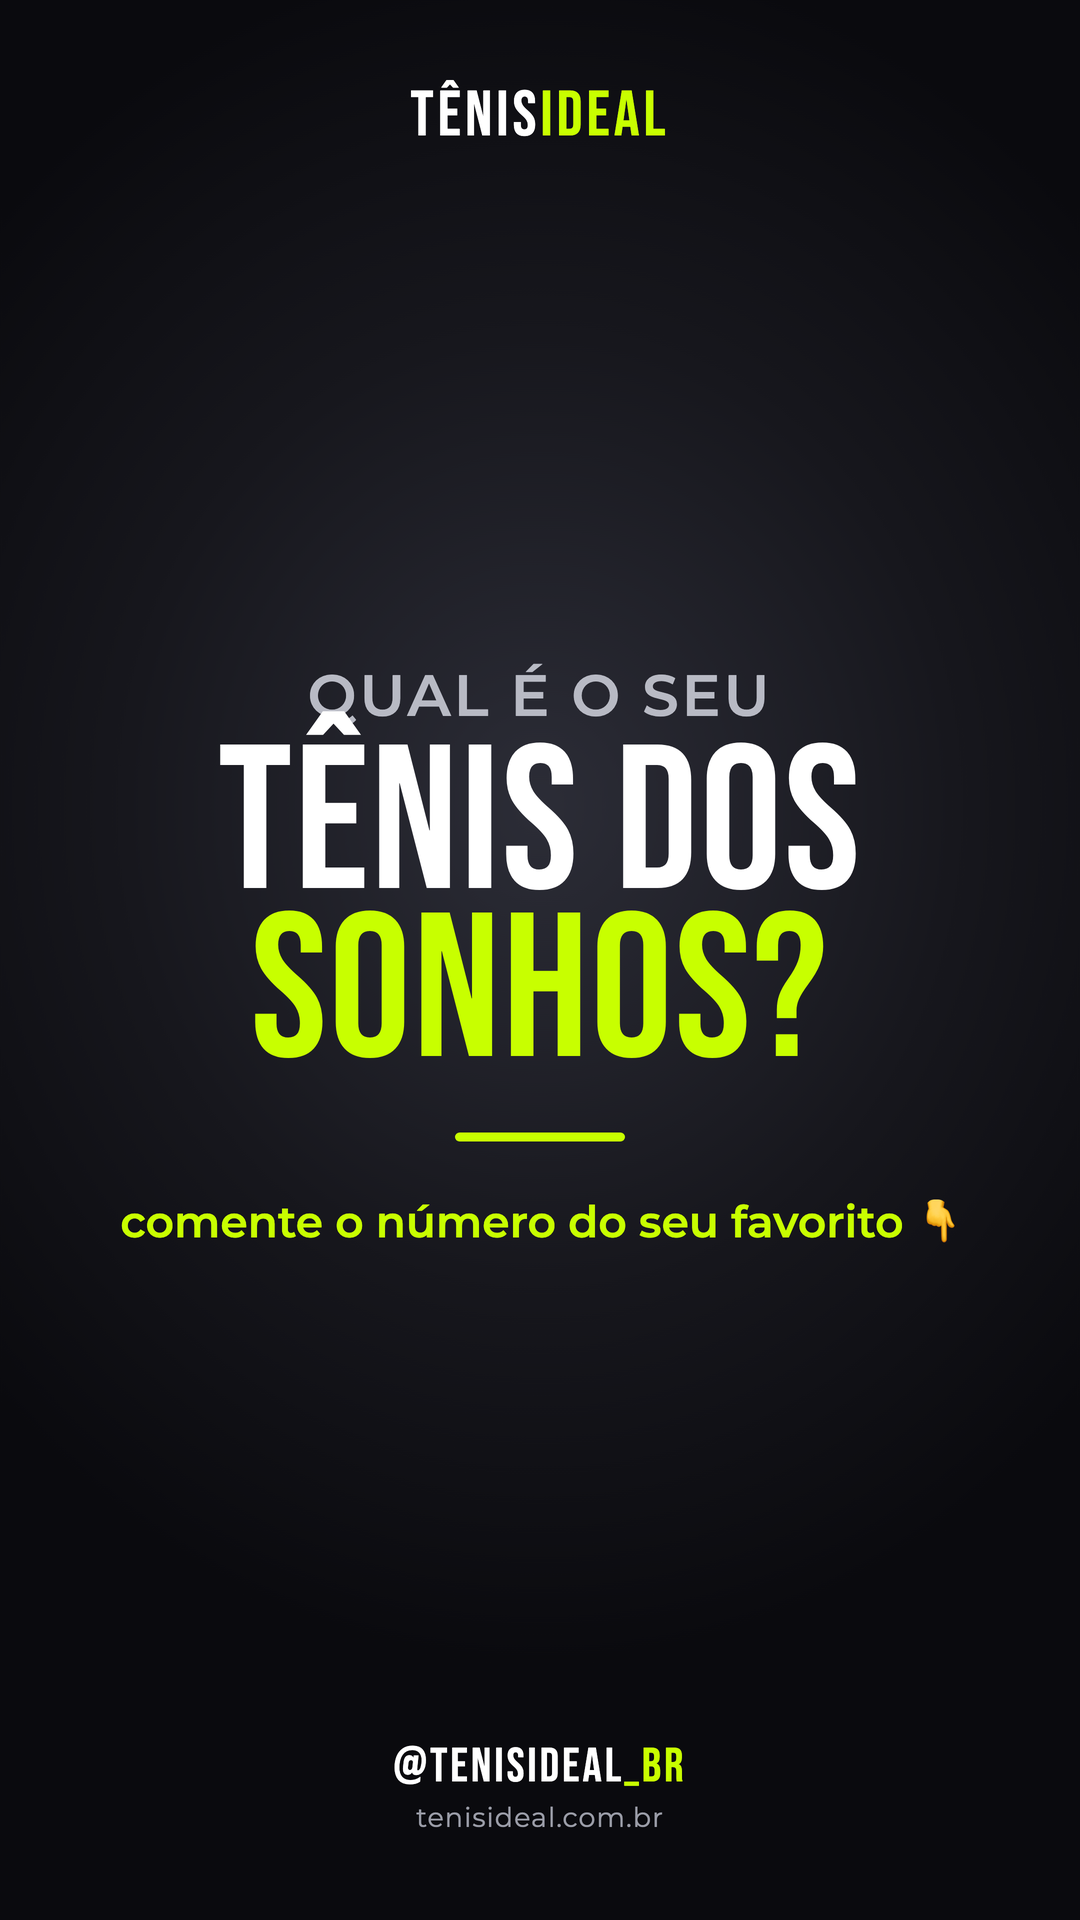
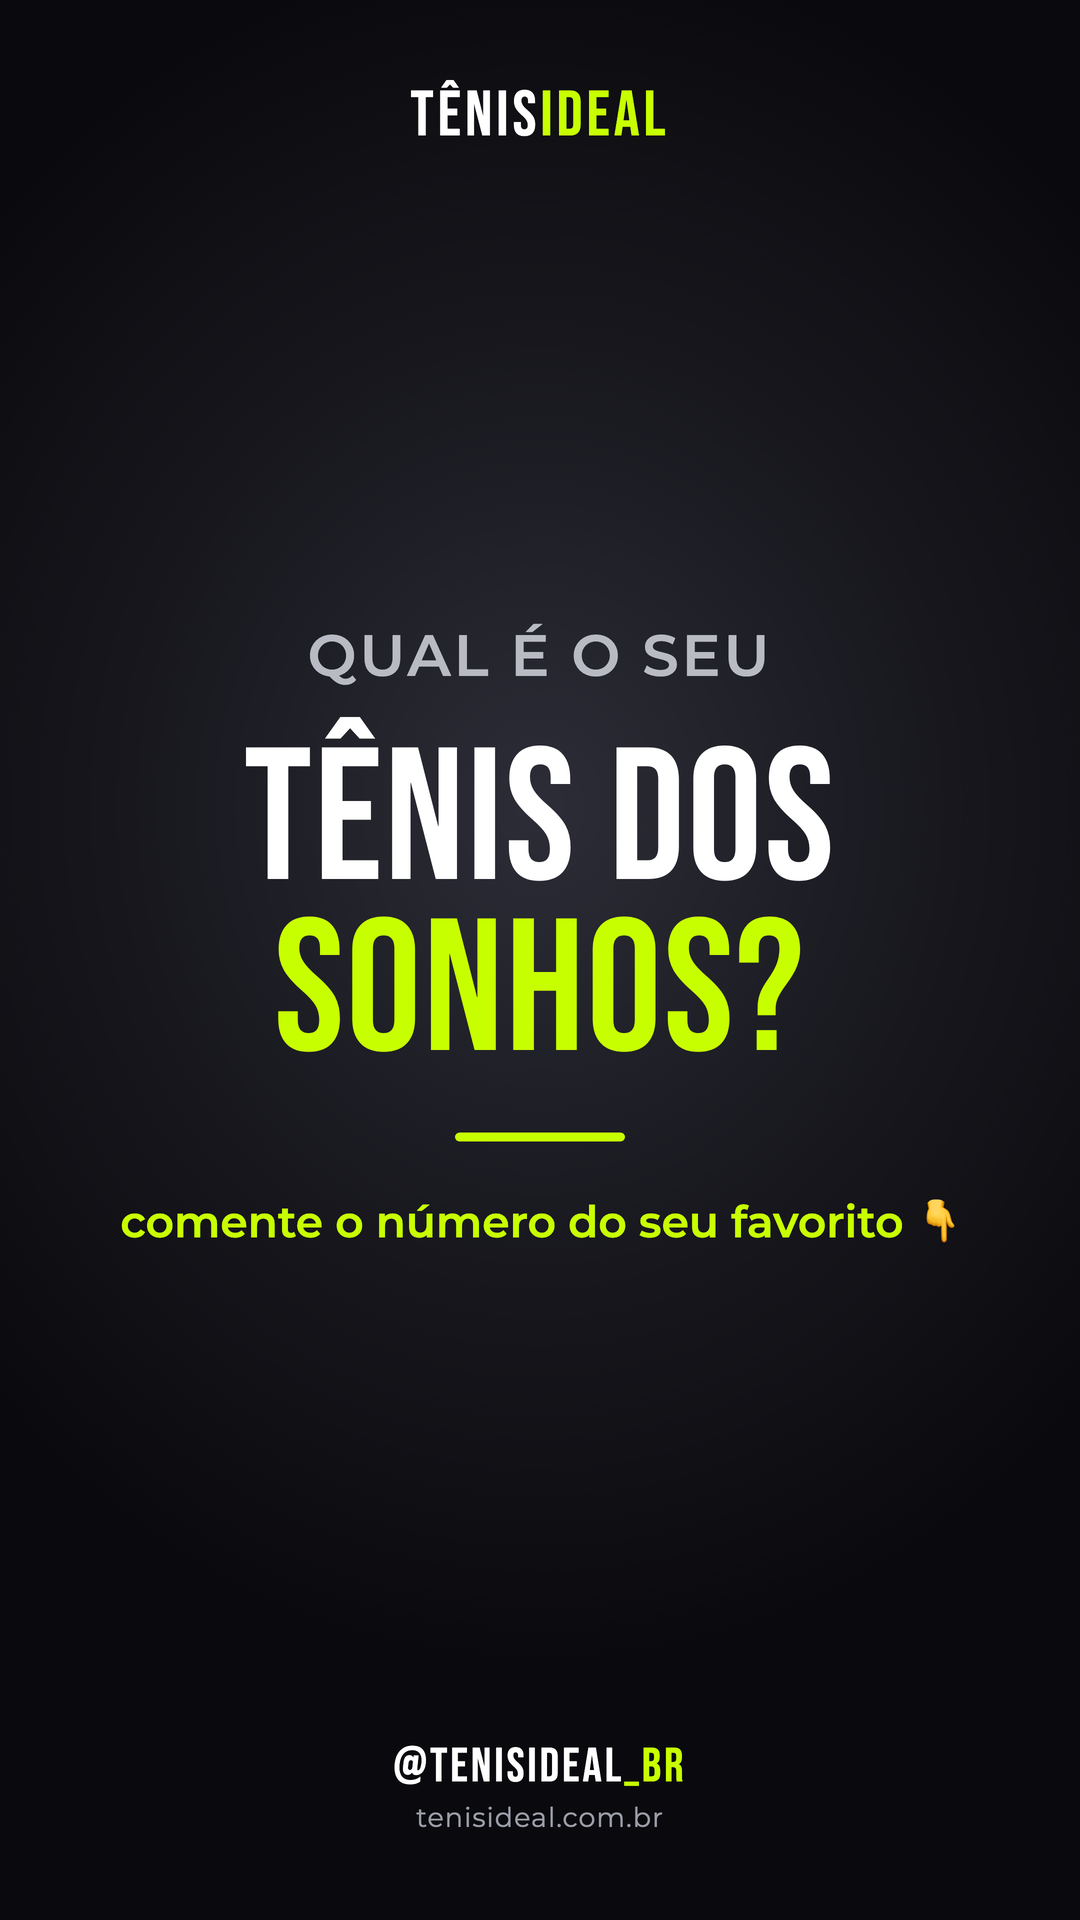
Vídeo TikTok: corrige espaçamento do gancho e recorte (defringe). Aplica defringe no robô diário tb

Changed region(s): [[0.1833, 0.3125, 0.7944, 0.5625]]

diff --git a/gerar_arte_instagram.py b/gerar_arte_instagram.py
@@ -129,7 +129,7 @@ def baixar(url):
 
 
 def recortar(raw):
-    from PIL import Image, ImageDraw
+    from PIL import Image, ImageDraw, ImageFilter
     img = Image.open(io.BytesIO(raw)).convert("RGB")
     w, h = img.size
     if not all(sum(img.getpixel(p)) / 3 > 200 for p in [(1, 1), (w - 2, 1), (1, h - 2), (w - 2, h - 2)]):
@@ -145,6 +145,9 @@ def recortar(raw):
             r, g, b, a = px[x, y]
             if r > 250 and g < 6 and b > 250:
                 px[x, y] = (0, 0, 0, 0)
+    # defringe: erode a borda ~2px + suaviza (tira o "halo" branco em tênis claros)
+    a = rgba.split()[3].filter(ImageFilter.MinFilter(5)).filter(ImageFilter.GaussianBlur(0.8))
+    rgba.putalpha(a)
     bb = rgba.getbbox()
     return rgba.crop(bb) if bb else rgba
 